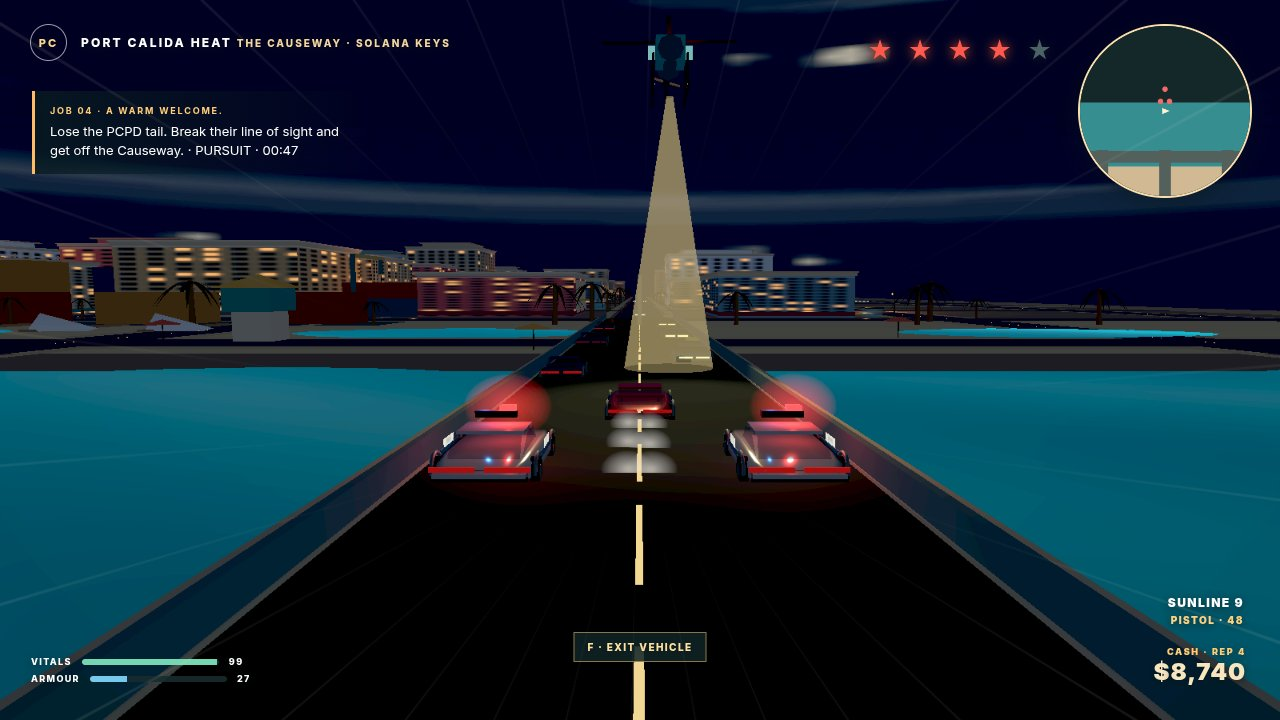
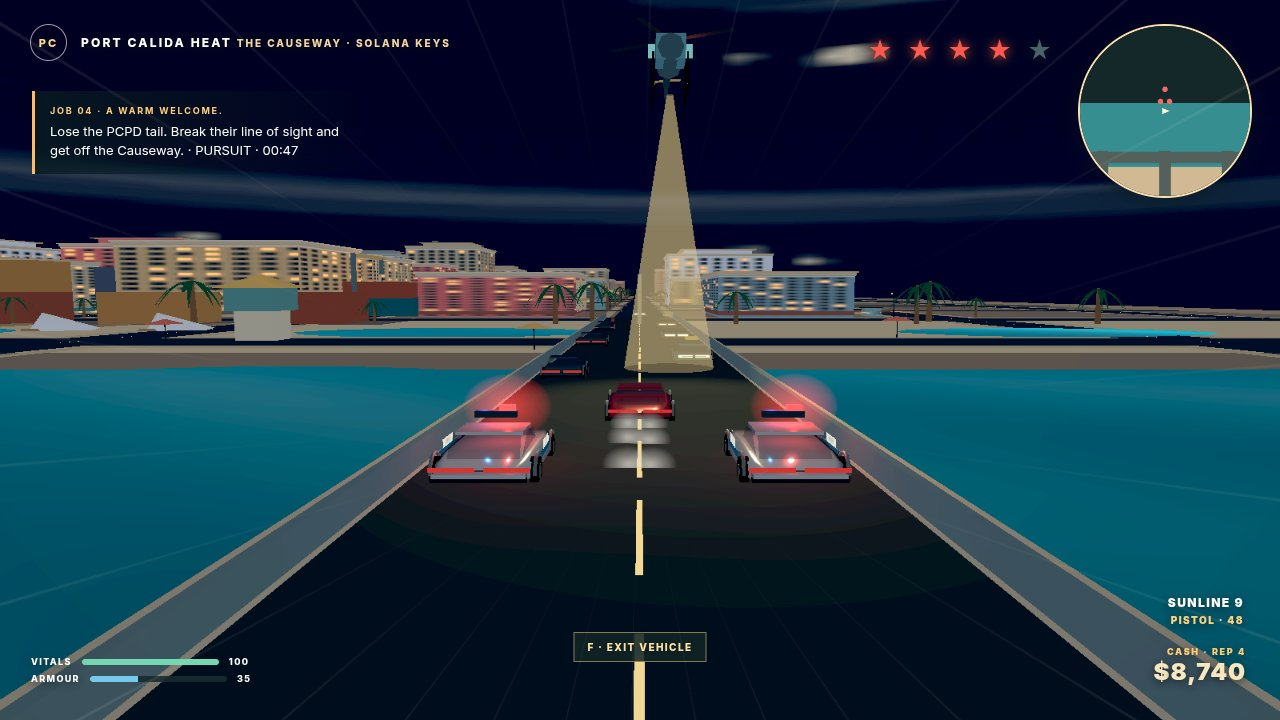
WIP: colour pipeline fixes 2

diff --git a/game/src/world/skyLighting.js b/game/src/world/skyLighting.js
@@ -14,7 +14,7 @@ const presets = {
   night: {
     sky: ['#030a16', '#0a172b', '#101e36', '#17243b', '#101e36'],
     fog: 0x101e36, fogDensity: .00062, ambient: 1.5, sun: .07,
-    hemiSky: 0x101e36, hemiGround: 0x29354a, sunColor: 0x9eb7df, exposure: 1.28,
+    hemiSky: 0x101e36, hemiGround: 0x29354a, sunColor: 0x9eb7df, exposure: 1.4,
   },
 };
 
@@ -98,7 +98,7 @@ export function createSkyLighting(scene, renderer, initialPreset = 'golden') {
   scene.add(skyDome);
   const hemi = new THREE.HemisphereLight(0xa9d5ee, 0x53624f, 1);
   scene.add(hemi);
-  const nightFill = new THREE.AmbientLight(0x9cadc9, 0);
+  const nightFill = new THREE.AmbientLight(0xb2bfd4, 0);
   scene.add(nightFill);
   const sun = new THREE.DirectionalLight(0xffe0a1, 2.45);
   sun.position.set(-180, 260, 100); sun.castShadow = true;
@@ -150,7 +150,7 @@ export function createSkyLighting(scene, renderer, initialPreset = 'golden') {
     hemi.color.setHex(preset.hemiSky);
     hemi.groundColor.setHex(preset.hemiGround);
     hemi.intensity = preset.ambient;
-    nightFill.intensity = key === 'night' ? 1.8 : 0;
+    nightFill.intensity = key === 'night' ? 2.6 : 0;
     renderer.toneMappingExposure = preset.exposure;
     sun.color.setHex(preset.sunColor);
     sun.intensity = preset.sun;
